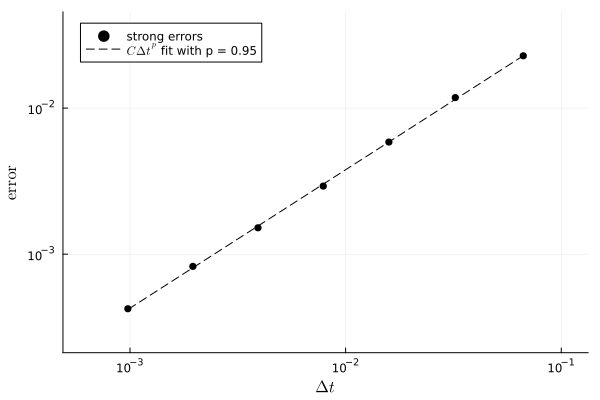
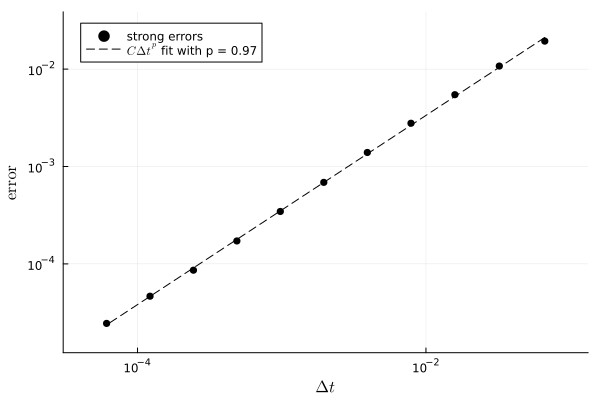
adjust meshes

diff --git a/docs/src/examples/01-wiener_linearhomogeneous.md b/docs/src/examples/01-wiener_linearhomogeneous.md
@@ -121,8 +121,8 @@ y0 = 0.0
 noise! = Wiener_noise(t0, tf, y0)
 f(t, x, y) = y * x
 
-Ntgt = 2^12
-Ns = 2 .^ (4:10)
+Ntgt = 2^16
+Ns = 2 .^ (4:14)
 M = 1_000
 ````
 

diff --git a/docs/src/examples/02-wiener_linearnonhomogeneous.md b/docs/src/examples/02-wiener_linearnonhomogeneous.md
@@ -122,7 +122,7 @@ noise! = Wiener_noise(t0, tf, y0)
 f(t, x, y) = - x + y
 
 Ntgt = 2^16
-Ns = 2 .^ (4:10)
+Ns = 2 .^ (4:14)
 M = 1_000
 ````
 
